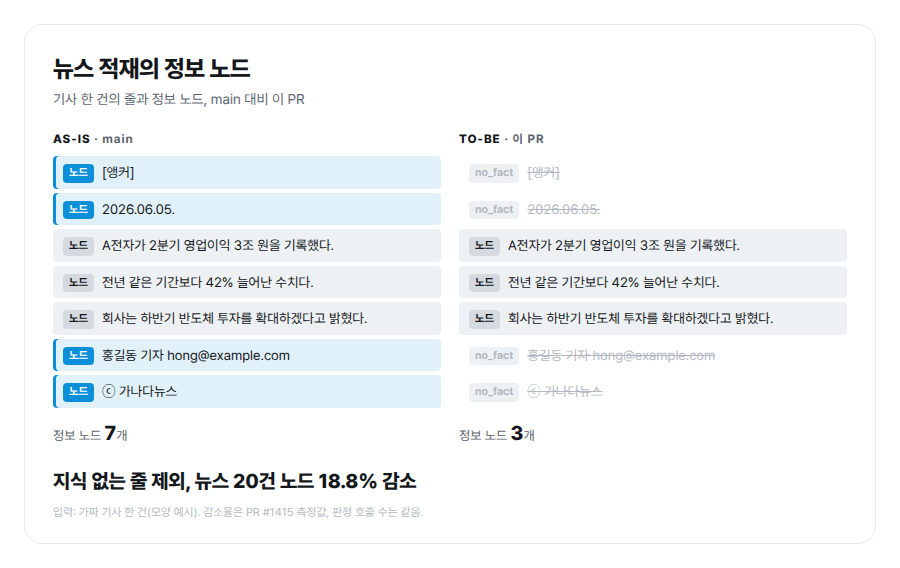
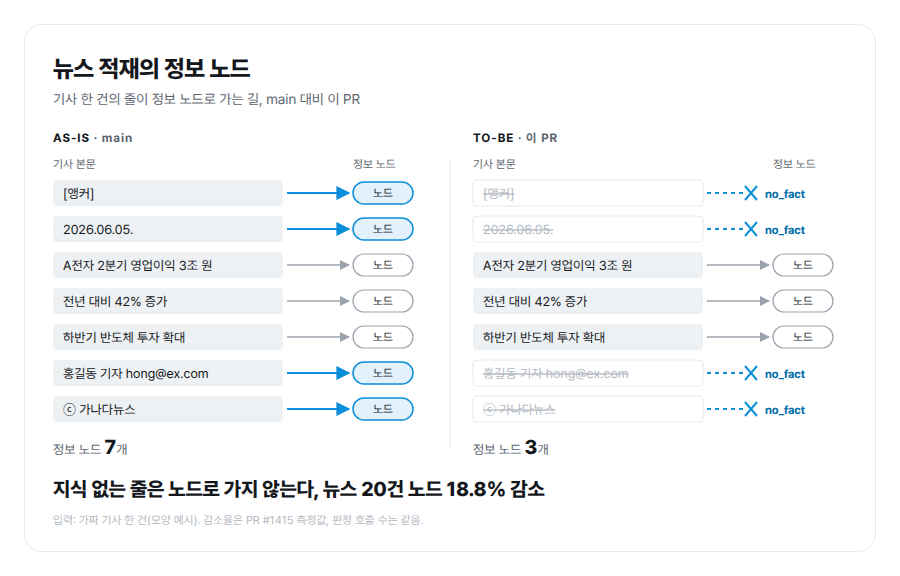
pr, visuals: PR 변경 그림은 글자 상자가 아니라 바뀐 흐름·관계·시간을 SVG 도형과 화살표로 그린다

diff --git a/skills/visuals/examples/pr1415.html b/skills/visuals/examples/pr1415.html
@@ -1,23 +1,83 @@
 <!doctype html><html lang="ko"><head><meta charset="utf-8"><link rel="stylesheet" href="card.css"></head><body><div class="card">
-<div class="title">뉴스 적재의 정보 노드</div><div class="sub">기사 한 건의 줄과 정보 노드, main 대비 이 PR</div>
-<div class="cols"><div class="col"><h4><b>AS-IS</b> · main</h4>
-<div class="row hit"><span class="t">노드</span>[앵커]</div>
-<div class="row hit"><span class="t">노드</span>2026.06.05.</div>
-<div class="row"><span class="t">노드</span>A전자가 2분기 영업이익 3조 원을 기록했다.</div>
-<div class="row"><span class="t">노드</span>전년 같은 기간보다 42% 늘어난 수치다.</div>
-<div class="row"><span class="t">노드</span>회사는 하반기 반도체 투자를 확대하겠다고 밝혔다.</div>
-<div class="row hit"><span class="t">노드</span>홍길동 기자 hong@example.com</div>
-<div class="row hit"><span class="t">노드</span>ⓒ 가나다뉴스</div>
-<div class="num">정보 노드 <b>7</b>개</div></div>
-<div class="col"><h4><b>TO-BE</b> · 이 PR</h4>
-<div class="row gone"><span class="t">no_fact</span><s>[앵커]</s></div>
-<div class="row gone"><span class="t">no_fact</span><s>2026.06.05.</s></div>
-<div class="row"><span class="t">노드</span>A전자가 2분기 영업이익 3조 원을 기록했다.</div>
-<div class="row"><span class="t">노드</span>전년 같은 기간보다 42% 늘어난 수치다.</div>
-<div class="row"><span class="t">노드</span>회사는 하반기 반도체 투자를 확대하겠다고 밝혔다.</div>
-<div class="row gone"><span class="t">no_fact</span><s>홍길동 기자 hong@example.com</s></div>
-<div class="row gone"><span class="t">no_fact</span><s>ⓒ 가나다뉴스</s></div>
-<div class="num">정보 노드 <b>3</b>개</div></div></div>
-<div class="foot"><div class="take">지식 없는 줄 제외, 뉴스 20건 노드 18.8% 감소</div></div>
+<div class="title">뉴스 적재의 정보 노드</div><div class="sub">기사 한 건의 줄이 정보 노드로 가는 길, main 대비 이 PR</div>
+<svg class="fig" viewBox="0 0 794 330"><defs><marker id="a" viewBox="0 0 10 10" refX="9" refY="5" markerWidth="7" markerHeight="7" orient="auto-start-reverse"><path d="M0 0L10 5L0 10z" fill="#9AA3AD"/></marker><marker id="h" viewBox="0 0 10 10" refX="9" refY="5" markerWidth="7" markerHeight="7" orient="auto-start-reverse"><path d="M0 0L10 5L0 10z" fill="#0B8FD8"/></marker></defs>
+<text x="0" y="14" class="head"><tspan class="b">AS-IS</tspan> · main</text>
+<text x="0" y="40" class="small">기사 본문</text><text x="300" y="40" class="small">정보 노드</text>
+<rect x="0" y="52" width="230" height="26" rx="4" class="box"/>
+<text x="10" y="70">[앵커]</text>
+<path d="M234 65H296" class="edge hit" marker-end="url(#h)"/>
+<rect x="300" y="54" width="60" height="22" rx="11" class="hit"/>
+<text x="330" y="69" text-anchor="middle" style="font-size:11.5px">노드</text>
+<rect x="0" y="88" width="230" height="26" rx="4" class="box"/>
+<text x="10" y="106">2026.06.05.</text>
+<path d="M234 101H296" class="edge hit" marker-end="url(#h)"/>
+<rect x="300" y="90" width="60" height="22" rx="11" class="hit"/>
+<text x="330" y="105" text-anchor="middle" style="font-size:11.5px">노드</text>
+<rect x="0" y="124" width="230" height="26" rx="4" class="box"/>
+<text x="10" y="142">A전자 2분기 영업이익 3조 원</text>
+<path d="M234 137H296" class="edge" marker-end="url(#a)"/>
+<rect x="300" y="126" width="60" height="22" rx="11" class="node"/>
+<text x="330" y="141" text-anchor="middle" style="font-size:11.5px">노드</text>
+<rect x="0" y="160" width="230" height="26" rx="4" class="box"/>
+<text x="10" y="178">전년 대비 42% 증가</text>
+<path d="M234 173H296" class="edge" marker-end="url(#a)"/>
+<rect x="300" y="162" width="60" height="22" rx="11" class="node"/>
+<text x="330" y="177" text-anchor="middle" style="font-size:11.5px">노드</text>
+<rect x="0" y="196" width="230" height="26" rx="4" class="box"/>
+<text x="10" y="214">하반기 반도체 투자 확대</text>
+<path d="M234 209H296" class="edge" marker-end="url(#a)"/>
+<rect x="300" y="198" width="60" height="22" rx="11" class="node"/>
+<text x="330" y="213" text-anchor="middle" style="font-size:11.5px">노드</text>
+<rect x="0" y="232" width="230" height="26" rx="4" class="box"/>
+<text x="10" y="250">홍길동 기자 hong@ex.com</text>
+<path d="M234 245H296" class="edge hit" marker-end="url(#h)"/>
+<rect x="300" y="234" width="60" height="22" rx="11" class="hit"/>
+<text x="330" y="249" text-anchor="middle" style="font-size:11.5px">노드</text>
+<rect x="0" y="268" width="230" height="26" rx="4" class="box"/>
+<text x="10" y="286">ⓒ 가나다뉴스</text>
+<path d="M234 281H296" class="edge hit" marker-end="url(#h)"/>
+<rect x="300" y="270" width="60" height="22" rx="11" class="hit"/>
+<text x="330" y="285" text-anchor="middle" style="font-size:11.5px">노드</text>
+<text x="0" y="326" class="count">정보 노드 <tspan class="n">7</tspan>개</text>
+<path d="M397 30V320" class="axis"/>
+<text x="420" y="14" class="head"><tspan class="b">TO-BE</tspan> · 이 PR</text>
+<text x="420" y="40" class="small">기사 본문</text><text x="720" y="40" class="small">정보 노드</text>
+<rect x="420" y="52" width="230" height="26" rx="4" fill="none" stroke="#E6E9ED"/>
+<text x="430" y="70" class="gone" text-decoration="line-through">[앵커]</text>
+<path d="M654 65H692" class="edge hit cut"/>
+<path d="M692 58l12 14M704 58l-12 14" stroke="#0B8FD8" stroke-width="2"/>
+<text x="712" y="70" class="acc" style="font-size:11.5px">no_fact</text>
+<rect x="420" y="88" width="230" height="26" rx="4" fill="none" stroke="#E6E9ED"/>
+<text x="430" y="106" class="gone" text-decoration="line-through">2026.06.05.</text>
+<path d="M654 101H692" class="edge hit cut"/>
+<path d="M692 94l12 14M704 94l-12 14" stroke="#0B8FD8" stroke-width="2"/>
+<text x="712" y="106" class="acc" style="font-size:11.5px">no_fact</text>
+<rect x="420" y="124" width="230" height="26" rx="4" class="box"/>
+<text x="430" y="142">A전자 2분기 영업이익 3조 원</text>
+<path d="M654 137H716" class="edge" marker-end="url(#a)"/>
+<rect x="720" y="126" width="60" height="22" rx="11" class="node"/>
+<text x="750" y="141" text-anchor="middle" style="font-size:11.5px">노드</text>
+<rect x="420" y="160" width="230" height="26" rx="4" class="box"/>
+<text x="430" y="178">전년 대비 42% 증가</text>
+<path d="M654 173H716" class="edge" marker-end="url(#a)"/>
+<rect x="720" y="162" width="60" height="22" rx="11" class="node"/>
+<text x="750" y="177" text-anchor="middle" style="font-size:11.5px">노드</text>
+<rect x="420" y="196" width="230" height="26" rx="4" class="box"/>
+<text x="430" y="214">하반기 반도체 투자 확대</text>
+<path d="M654 209H716" class="edge" marker-end="url(#a)"/>
+<rect x="720" y="198" width="60" height="22" rx="11" class="node"/>
+<text x="750" y="213" text-anchor="middle" style="font-size:11.5px">노드</text>
+<rect x="420" y="232" width="230" height="26" rx="4" fill="none" stroke="#E6E9ED"/>
+<text x="430" y="250" class="gone" text-decoration="line-through">홍길동 기자 hong@ex.com</text>
+<path d="M654 245H692" class="edge hit cut"/>
+<path d="M692 238l12 14M704 238l-12 14" stroke="#0B8FD8" stroke-width="2"/>
+<text x="712" y="250" class="acc" style="font-size:11.5px">no_fact</text>
+<rect x="420" y="268" width="230" height="26" rx="4" fill="none" stroke="#E6E9ED"/>
+<text x="430" y="286" class="gone" text-decoration="line-through">ⓒ 가나다뉴스</text>
+<path d="M654 281H692" class="edge hit cut"/>
+<path d="M692 274l12 14M704 274l-12 14" stroke="#0B8FD8" stroke-width="2"/>
+<text x="712" y="286" class="acc" style="font-size:11.5px">no_fact</text>
+<text x="420" y="326" class="count">정보 노드 <tspan class="n">3</tspan>개</text></svg>
+<div class="take">지식 없는 줄은 노드로 가지 않는다, 뉴스 20건 노드 18.8% 감소</div>
 <div class="src">입력: 가짜 기사 한 건(모양 예시). 감소율은 PR #1415 측정값, 판정 호출 수는 같음.</div>
 </div></body></html>

diff --git a/skills/visuals/examples/pr1437.html b/skills/visuals/examples/pr1437.html
@@ -1,21 +1,26 @@
 <!doctype html><html lang="ko"><head><meta charset="utf-8"><link rel="stylesheet" href="card.css"></head><body><div class="card">
-<div class="title">생략된 주어 문장의 정보 노드</div><div class="sub">기사 두 문장과 정보 노드, main 대비 이 PR</div>
-<div class="cols"><div class="col"><h4><b>AS-IS</b> · main</h4>
-<div class="cap">기사 본문</div>
-<div class="row"><span class="t">문장 1</span>A전자가 23일 새 폴더블폰을 공개했다.</div>
-<div class="row"><span class="t">문장 2</span>이어 하반기 유럽 출시 계획도 밝혔다.</div>
-<div class="cap">정보 노드</div>
-<div class="row"><span class="t">노드</span>A전자가 23일 새 폴더블폰을 공개했다.</div>
-<div class="row hit"><span class="t">노드</span>이어 하반기 유럽 출시 계획도 밝혔다.</div>
-<div class="num">누가 밝혔는지 없는 조각 <b>1</b>개</div></div>
-<div class="col"><h4><b>TO-BE</b> · 이 PR</h4>
-<div class="cap">기사 본문</div>
-<div class="row"><span class="t">문장 1</span>A전자가 23일 새 폴더블폰을 공개했다.</div>
-<div class="row"><span class="t">문장 2</span>이어 하반기 유럽 출시 계획도 밝혔다.</div>
-<div class="ref">↳ (생략된 주어) refers_to 문장 1</div>
-<div class="cap">정보 노드</div>
-<div class="row hit"><span class="t">노드</span>A전자가 23일 새 폴더블폰을 공개했다. 이어 하반기 유럽 출시 계획도 밝혔다.</div>
-<div class="num">조각 <b>0</b>개</div></div></div>
-<div class="foot"><div class="take">조각 해소 48 → 58 / 80 (뉴스 29건)</div></div>
+<div class="title">생략된 주어 문장의 정보 노드</div><div class="sub">기사 두 문장이 정보 노드가 되는 길, main 대비 이 PR</div>
+<svg class="fig" viewBox="0 0 794 206"><defs><marker id="a" viewBox="0 0 10 10" refX="9" refY="5" markerWidth="7" markerHeight="7" orient="auto-start-reverse"><path d="M0 0L10 5L0 10z" fill="#9AA3AD"/></marker><marker id="h" viewBox="0 0 10 10" refX="9" refY="5" markerWidth="7" markerHeight="7" orient="auto-start-reverse"><path d="M0 0L10 5L0 10z" fill="#0B8FD8"/></marker></defs>
+<text x="0" y="14" class="head"><tspan class="b">AS-IS</tspan> · main</text>
+<text x="24" y="40" class="small">기사 본문</text><text x="276" y="40" class="small">정보 노드</text>
+<rect x="24" y="52" width="220" height="30" rx="4" class="box"/><text x="34" y="72">A전자가 새 폴더블폰을 공개했다.</text>
+<rect x="24" y="122" width="220" height="30" rx="4" class="box"/><text x="34" y="142">이어 유럽 출시 계획도 밝혔다.</text>
+<path d="M248 67H272" class="edge" marker-end="url(#a)"/>
+<rect x="276" y="52" width="100" height="30" rx="15" class="node"/><text x="326" y="72" text-anchor="middle" style="font-size:12px">A전자 · 공개</text>
+<path d="M248 137H272" class="edge hit" marker-end="url(#h)"/>
+<rect x="276" y="122" width="100" height="30" rx="15" class="hit" stroke-dasharray="4 3"/><text x="326" y="142" text-anchor="middle" class="acc" style="font-size:12px">? · 유럽 출시</text>
+<text x="24" y="196" class="count">누가 밝혔는지 없는 조각 <tspan class="n">1</tspan>개</text>
+<path d="M397 30V200" class="axis"/>
+<text x="418" y="14" class="head"><tspan class="b">TO-BE</tspan> · 이 PR</text>
+<text x="442" y="40" class="small">기사 본문</text><text x="694" y="40" class="small">정보 노드</text>
+<rect x="442" y="52" width="220" height="30" rx="4" class="box"/><text x="452" y="72">A전자가 새 폴더블폰을 공개했다.</text>
+<rect x="442" y="122" width="220" height="30" rx="4" class="box"/><text x="452" y="142">이어 유럽 출시 계획도 밝혔다.</text>
+<path d="M442 137C416 137 416 67 438 67" class="edge hit" marker-end="url(#h)"/>
+<text x="448" y="106" class="acc" style="font-size:12px">refers_to 문장 1</text>
+<path d="M666 67C680 67 680 102 690 102" class="edge" marker-end="url(#a)"/>
+<path d="M666 137C680 137 680 102 690 102" class="edge hit" marker-end="url(#h)"/>
+<rect x="694" y="80" width="100" height="44" rx="12" class="hit"/><text x="744" y="98" text-anchor="middle" style="font-size:12px">A전자 · 공개</text><text x="744" y="115" text-anchor="middle" class="acc" style="font-size:12px">+ 유럽 출시</text>
+<text x="442" y="196" class="count">조각 <tspan class="n">0</tspan>개</text></svg>
+<div class="take">조각 해소 48 → 58 / 80 (뉴스 29건)</div>
 <div class="src">입력: 가짜 기사 두 문장(모양 예시). 해소 수치는 PR #1437 측정값.</div>
 </div></body></html>

diff --git a/skills/visuals/examples/card.css b/skills/visuals/examples/card.css
@@ -2,25 +2,26 @@
 @font-face{font-family:Pretendard;src:url(fonts/Pretendard-SemiBold.otf);font-weight:600}
 @font-face{font-family:Pretendard;src:url(fonts/Pretendard-Bold.otf);font-weight:700}
 @font-face{font-family:Pretendard;src:url(fonts/Pretendard-ExtraBold.otf);font-weight:800}
-:root{--bg:#F4F6F8;--panel:#FFFFFF;--ink:#14171B;--muted:#5D6570;--dim:#B3B9C2;--accent:#0B8FD8;--accentText:#006DA8;--line:#E6E9ED;--soft:#EEF1F4;--tint:rgba(11,143,216,.12)}
+:root{--panel:#FFFFFF;--ink:#14171B;--muted:#5D6570;--dim:#B3B9C2;--accent:#0B8FD8;--accentText:#006DA8;--line:#E6E9ED;--soft:#EEF1F4;--edge:#9AA3AD;--tint:#E2F1FB}
 body{margin:0;background:#fff;color:var(--ink);font:15px/1.5 Pretendard,"Pretendard Variable","Noto Sans KR",sans-serif;word-break:keep-all}
 .card{margin:24px;padding:26px 28px 22px;border:1px solid var(--line);border-radius:18px;background:var(--panel)}
 .title{font-size:24px;font-weight:800;letter-spacing:-.02em}
 .sub{font-size:14px;color:var(--muted);margin-top:2px}
-.cols{display:grid;grid-template-columns:1fr 1fr;gap:18px;margin-top:20px}
-.col h4{margin:0 0 8px;font-size:12px;font-weight:700;letter-spacing:.08em;color:var(--muted)}
-.col h4 b{color:var(--ink)}
-.cap{font-size:12px;color:var(--muted);margin:10px 0 4px}
-.row{display:flex;gap:8px;align-items:flex-start;padding:6px 10px;margin:4px 0;border-radius:4px;background:var(--soft);font-size:13.5px}
-.row .t{flex:none;font-size:11px;font-weight:700;border-radius:4px;padding:1px 6px;margin-top:2px;background:#D5DAE0;color:var(--ink)}
-.row.hit{background:var(--tint);box-shadow:inset 3px 0 0 var(--accent)}
-.row.hit .t{background:var(--accent);color:#fff}
-.row.gone{background:transparent;color:var(--dim)}
-.row.gone s{text-decoration:line-through}
-.row.gone .t{background:var(--soft);color:var(--dim)}
-.ref{font-size:12px;color:var(--accentText);margin:-1px 0 4px 56px}
-.num{margin-top:10px;font-size:13px;color:var(--muted)}
-.num b{font-size:20px;color:var(--ink);font-weight:800}
-.foot{display:flex;justify-content:space-between;align-items:flex-end;margin-top:18px}
-.take{font-size:20px;font-weight:800;letter-spacing:-.01em}
+.take{margin-top:16px;font-size:20px;font-weight:800;letter-spacing:-.01em}
 .src{font-size:11.5px;color:var(--dim);margin-top:8px}
+svg.fig{display:block;width:100%;height:auto;margin-top:18px;font-family:Pretendard,sans-serif}
+svg.fig text{font-size:13px;fill:var(--ink)}
+svg.fig .head{font-size:12px;font-weight:700;letter-spacing:.08em;fill:var(--muted)}
+svg.fig .head tspan.b{fill:var(--ink)}
+svg.fig .small{font-size:11.5px;fill:var(--muted)}
+svg.fig .count{font-size:13px;fill:var(--muted)}
+svg.fig .count tspan.n{font-size:20px;font-weight:800;fill:var(--ink)}
+svg.fig .box{fill:var(--soft)}
+svg.fig .node{fill:#fff;stroke:var(--edge);stroke-width:1.2}
+svg.fig .hit{fill:var(--tint);stroke:var(--accent);stroke-width:1.5}
+svg.fig .gone{fill:var(--dim)}
+svg.fig .edge{fill:none;stroke:var(--edge);stroke-width:1.5}
+svg.fig .edge.hit{fill:none;stroke:var(--accent);stroke-width:2}
+svg.fig .edge.cut{stroke-dasharray:4 4}
+svg.fig .acc{fill:var(--accentText);font-weight:700}
+svg.fig .axis{stroke:var(--line);stroke-width:1}

diff --git a/skills/visuals/examples/container-cleanup.html b/skills/visuals/examples/container-cleanup.html
@@ -1,0 +1,26 @@
+<!doctype html><html lang="ko"><head><meta charset="utf-8"><link rel="stylesheet" href="card.css"></head><body><div class="card">
+<div class="title">강제 종료된 시험 실행의 컨테이너</div><div class="sub">runner를 SIGKILL한 뒤 컨테이너가 사는 시간, main 대비 이 PR</div>
+<svg class="fig" viewBox="0 0 794 332"><path d="M0 168H794" stroke="#E6E9ED"/><defs><marker id="a" viewBox="0 0 10 10" refX="9" refY="5" markerWidth="7" markerHeight="7" orient="auto-start-reverse"><path d="M0 0L10 5L0 10z" fill="#9AA3AD"/></marker><marker id="h" viewBox="0 0 10 10" refX="9" refY="5" markerWidth="7" markerHeight="7" orient="auto-start-reverse"><path d="M0 0L10 5L0 10z" fill="#0B8FD8"/></marker></defs>
+<path d="M150.0 30V318" class="axis"/><text x="150.0" y="22" text-anchor="middle" class="small">0</text>
+<path d="M182.0 30V318" class="axis"/><text x="182.0" y="22" text-anchor="middle" class="small">10초</text>
+<path d="M278.0 30V318" class="axis"/><text x="278.0" y="22" text-anchor="middle" class="small">40초</text>
+<path d="M726.0 30V318" class="axis"/><text x="726.0" y="22" text-anchor="middle" class="small">3분</text>
+<text x="0" y="48" class="head"><tspan class="b">AS-IS</tspan> · main</text>
+<text x="0" y="77">unit runner</text><rect x="150.0" y="64" width="32.0" height="18" rx="3" class="box"/>
+<path d="M177.0 62l12 22M189.0 62l-12 22" stroke="#14171B" stroke-width="2"/><text x="196.0" y="77" class="small">SIGKILL</text>
+<text x="0" y="111">unit 컨테이너</text>
+<rect x="150.0" y="98" width="616.0" height="18" rx="3" class="hit"/>
+<path d="M766.0 107h22" class="edge hit" marker-end="url(#h)"/>
+<text x="286.0" y="111" class="acc" style="font-size:12px">CPU 상한 없음(64코어) · 지우는 쪽 없음</text>
+<text x="0" y="154" class="count">3분 뒤 남은 컨테이너 <tspan class="n">1</tspan>개</text>
+<text x="0" y="182" class="head"><tspan class="b">TO-BE</tspan> · 이 PR</text>
+<text x="0" y="211">unit runner</text><rect x="150.0" y="198" width="32.0" height="18" rx="3" class="box"/>
+<path d="M177.0 196l12 22M189.0 196l-12 22" stroke="#14171B" stroke-width="2"/><text x="196.0" y="211" class="small">SIGKILL</text>
+<text x="0" y="245">unit 컨테이너</text><rect x="150.0" y="232" width="128.0" height="18" rx="3" class="node"/><text x="158.0" y="245" style="font-size:12px">CPU 4코어</text>
+<text x="0" y="279">Ryuk</text><rect x="150.0" y="266" width="128.0" height="18" rx="3" class="hit"/>
+<path d="M278.0 275C318.0 275 318.0 241 282.0 241" class="edge hit" marker-end="url(#h)"/>
+<text x="320.0" y="263.0" class="acc" style="font-size:12px">runner 연결이 끊기면 컨테이너와 자신을 삭제</text>
+<text x="0" y="312" class="count">40초 뒤 남은 컨테이너 <tspan class="n">0</tspan>개</text></svg>
+<div class="take">죽은 시험의 컨테이너가 40초 안에 사라지고, 사는 동안 CPU 4코어를 넘지 않는다</div>
+<div class="src">입력: 모양 예시. 시각은 작업자가 올린 그림의 관측값을 옮김.</div>
+</div></body></html>

diff --git a/skills/visuals/SKILL.md b/skills/visuals/SKILL.md
@@ -2,7 +2,7 @@
 name: visuals
 description: Apply the user's visual preferences to HTML, UI, data charts, diagrams, slides, and other visual materials; read it before making any data chart. Use ztd-charts for data charts and hand-positioned SVG for structural diagrams, with a light theme, readable fonts, and interaction where possible.
 metadata:
-  version: "1.4.0"
+  version: "1.5.0"
 ---
 
 # Visual materials
@@ -58,13 +58,24 @@ For an as-is structure, first inspect the code that computes each element's posi
 
 The change visual is the one image at the top of a PR body that shows what the PR changes at a glance; the `pr` skill (`~/.agents/skills/pr/SKILL.md`, "Change visual") holds the requirement and how it is posted. It takes one of two forms by the kind of change. The user's words (2026-11-17), after approving three as-is/to-be examples: "기능 변경의 경우 이런 시각화가 유용하고, 성능 개선의 경우는 chart 시각화를 넣어라."
 
-A change of behaviour or output uses the as-is/to-be card: two columns, `AS-IS · main` and `TO-BE · 이 PR`, over the same real input shown in both. Each column shows the output its code produced for that input, read from an actual run of the base commit and of the PR head, or the actual text of the file before and after. What the change touches is in the accent color, an item the change drops stays in place gray and struck through so the columns line up, and unchanged items stay neutral gray. Each column ends with one line of numbers that measures the difference, such as the count of extracted items. Pick the input that shows the difference most plainly and cut it to the part where the difference lies.
+A change of behaviour or output uses the as-is/to-be drawing: a hand-positioned SVG that draws what the change does to the same real input in both states, `AS-IS · main` and `TO-BE · 이 PR`. **The change visual is a drawing, not text in boxes.** The user's words (2026-11-17), shown PR change visuals that listed each state's items as text rows in boxes: "야. PR에 그림 넣는거, (…) 그냥 글자만 대충 상자 안에 넣고 올리잖아. 장난하냐? 그림을 그리라고 그림을", then "SVG 몰라?" and "강조해". So the body is an SVG whose shapes, positions, connectors, and arrows carry the change, with text only as short labels on them, as the "Charts and diagrams" and "Structural visualization" sections describe; two columns of text rows, with or without colored tags, are not a change visual however the rows are styled.
+
+Choose the drawing by what the change acts on, and draw that thing:
+
+| The change acts on | Draw |
+| --- | --- |
+| Flow of data, such as which input becomes which output | The input pieces and the outputs as shapes joined by arrows; a dropped path ends in a cut mark where it stops |
+| Relations, such as a reference, a merge, or a split | Nodes and the edges between them, with the new or removed edge in the accent color |
+| Time, such as a lifetime, an order, a timeout, or a retry | One shared time axis with a lane per state and bars for what lives when, the event that ends each bar drawn as an arrow from its cause |
+| Text, such as a document, a rule, or a prompt | The real passage before and after, with the changed spans marked on the text and joined to what they cause |
+
+Each state comes from the same real input, read from an actual run of the base commit and of the PR head, or the actual text of the file before and after. What the change touches is in the accent color, what the change removes stays in place in gray with its path cut, so the two states line up, and unchanged parts stay neutral gray. Each state ends with one line of numbers that measures the difference, such as the count of extracted items. Pick the input that shows the difference most plainly and cut it to the part where the difference lies.
 
 A performance change uses a `ztd-charts` chart of the measured or proved numbers, main against this PR for each case, such as a grouped bar of the two values per case or a bar of the speedup per path. Write the spec and render it as the "Charts and diagrams" section says.
 
-Both forms share one card style, the `ztd-charts` light theme card: a title, a one-line subtitle naming what is compared, the body, a bold one-line takeaway at the bottom, one accent color for what changed and neutral gray for the rest, and a small source line naming the input or the measurement. The user's words (2026-11-17), asking for this while the examples were made: "디자인 스타일을 좀 통일해주면 좋겠어", and, told that the card puts a title inside the figure against the rule above: "좋아. 일단 이렇게 하자". So the rule against titles and explanatory sentences inside a figure does not apply to the change visual. For the as-is/to-be card, write HTML on `examples/card.css`, which holds the theme tokens and the card classes, with a `fonts/` directory beside it holding the Pretendard files copied from `~/.local/share/ztd-charts-runtime/node_modules/ztd-charts-cli/fonts`, and render it to PNG with `~/.agents/skills/browser-render/SKILL.md` using `--viewport 900x100 --fullpage`, which keeps the page 900px wide, about the width GitHub shows a body at, and grows its height to the content. Inspect the PNG before posting: Korean text renders in Pretendard, nothing overlaps or is clipped, and the difference is visible without zooming.
+Both forms share one card style, the `ztd-charts` light theme card: a title, a one-line subtitle naming what is compared, the body, a bold one-line takeaway at the bottom, one accent color for what changed and neutral gray for the rest, and a small source line naming the input or the measurement. The user's words (2026-11-17), asking for this while the examples were made: "디자인 스타일을 좀 통일해주면 좋겠어", and, told that the card puts a title inside the figure against the rule above: "좋아. 일단 이렇게 하자". So the rule against titles and explanatory sentences inside a figure does not apply to the change visual. For the as-is/to-be drawing, write HTML on `examples/card.css`, which holds the theme tokens, the card frame, and the SVG classes, with the drawing as an inline `<svg class="fig">` between the subtitle and the takeaway, with a `fonts/` directory beside it holding the Pretendard files copied from `~/.local/share/ztd-charts-runtime/node_modules/ztd-charts-cli/fonts`, and render it to PNG with `~/.agents/skills/browser-render/SKILL.md` using `--viewport 900x100 --fullpage`, which keeps the page 900px wide, about the width GitHub shows a body at, and grows its height to the content. Inspect the PNG before posting: Korean text renders in Pretendard, nothing overlaps or is clipped, the difference is visible without zooming, and a reader who skips every label still sees what changed from the shapes and arrows.
 
-The approved examples in `examples/` are drawn on placeholder data for shape only; a real PR uses real data. `pr1415` (extraction: lines without facts dropped and struck through) and `pr1437` (prompt rule: a fragment node merged through `refers_to`) are as-is/to-be cards, each as its HTML source and PNG. `pr1460-chart` (keyword search: p50 speedup per path) and `pr1423-chart` (thread count, main against this PR per case) are performance charts, each as its `ztd-charts` spec and PNG.
+The examples in `examples/` are drawn on placeholder data for shape only; a real PR uses real data. `pr1415` (flow: lines without facts cut before they become nodes), `pr1437` (relation: a `refers_to` edge merges two nodes), and `container-cleanup` (time: a container's lifetime after its runner is killed, ended by Ryuk) are as-is/to-be drawings, each as its HTML source and PNG. `pr1460-chart` (keyword search: p50 speedup per path) and `pr1423-chart` (thread count, main against this PR per case) are performance charts, each as its `ztd-charts` spec and PNG.
 
 ## Render verification
 

diff --git a/skills/pr/SKILL.md b/skills/pr/SKILL.md
@@ -3,7 +3,7 @@ name: pr
 description: "Open a PR, take it through the CI gate, and finish it through merging. Write the title as a noun phrase, and write the body as a change visual at the very top (one image: as-is and to-be on real data for a behaviour change, a chart of main against the PR for a performance change), then an issue reference line, then a short `-` bullet summary of about three bullets (10 lines or fewer including sub-bullets), with the detailed explanation placed at the bottom of the body. Always apply the sucks skill to Korean prose. Use when the user calls /pr or instructs to open a PR (PR 을 올리라고 지시할 때), when merging or finishing a PR (PR 을 병합하거나 마무리할 때), when stacking PRs with the GitHub stacked PR feature (PR 을 스택하라고 지시할 때), and when CI fails on code that was just pushed or merged (방금 push 하거나 병합한 코드의 CI 가 실패했을 때)."
 metadata:
   author: hrlee
-  version: "1.28.0"
+  version: "1.29.0"
   domain: workflow
   triggers: PR, pull request, PR 스택, stacked PR, gh stack, PR 올려, PR 생성, gh pr create, PR 병합, CI 실패
   role: guardian
@@ -141,7 +141,7 @@ If the repository requires a prefix such as `fix(#12):` or a suffix such as `(#1
 
 The body opens with one image that shows at a glance what the PR changes, before any prose. The user's words (2026-11-17), given as a general instruction for every future PR: "앞으로 PR을 작성할때, 그 PR이 무엇을 바꾸는지, 힐끗 봐도 바로 알 수 있는 html 아티팩트를 작성해서 pr에 삽입하거나, 이미지로 만들어서 PR 본문 맨위에 넣을거야. 예를 들어서, emem에서 정보 추출 방식을 변경하는 PR이 있다고 하면, AS-is와, to-be를 바로 이해할 수 있어야돼. 설명만 있는게 아니라, 실제 데이터를 가지고 보여줘야돼. 특정 기사 본문을 표시하고, 원래는 정보가 이렇게 뽑혔는데, 지금은 이렇게 뽑힌다고 딱 그림으로 표시하는식."
 
-The image takes one of two forms by the kind of change. The user's words (2026-11-17), after approving three as-is/to-be examples: "기능 변경의 경우 이런 시각화가 유용하고, 성능 개선의 경우는 chart 시각화를 넣어라." A change of behaviour or output puts as-is and to-be side by side on one real input the change acts on and marks what differs. As-is is what the base commit produces for that input and to-be is what the PR head produces, both obtained by running that code or reading that file, not described or invented; for the user's example, one real article body with the information the old extraction and the new extraction pull from it marked on the text. A change to text, such as a document, a rule, or a prompt, shows the real passage before and after; a change whose base has no such behavior shows what the base does with the same input, such as an error or an empty result. A performance change shows a chart of the measured or proved numbers, main against the PR head for each case. Draw either as `~/.agents/skills/visuals/SKILL.md` describes under "PR change visual", in its shared card style, and inspect the PNG at the body width.
+The image takes one of two forms by the kind of change. The user's words (2026-11-17), after approving three as-is/to-be examples: "기능 변경의 경우 이런 시각화가 유용하고, 성능 개선의 경우는 chart 시각화를 넣어라." A change of behaviour or output draws as-is and to-be on one real input the change acts on, as an SVG drawing whose shapes, connectors, and arrows show what differs; text rows listed in boxes are not a change visual (the user's words, 2026-11-17: "그림을 그리라고 그림을", "SVG 몰라?", "강조해"). As-is is what the base commit produces for that input and to-be is what the PR head produces, both obtained by running that code or reading that file, not described or invented; for the user's example, one real article body with the information the old extraction and the new extraction pull from it marked on the text. A change to text, such as a document, a rule, or a prompt, shows the real passage before and after; a change whose base has no such behavior shows what the base does with the same input, such as an error or an empty result. A performance change shows a chart of the measured or proved numbers, main against the PR head for each case. Draw either as `~/.agents/skills/visuals/SKILL.md` describes under "PR change visual", in its shared card style, and inspect the PNG at the body width.
 
 The image goes in the body as a PNG uploaded to GitHub, not as HTML. GitHub embeds images in a PR body ("GitHub supports embedding images into your issues, pull requests, discussions, comments and `.md` files.", https://docs.github.com/en/get-started/writing-on-github/getting-started-with-writing-and-formatting-on-github/basic-writing-and-formatting-syntax), and GitHub CLI uploads it: "You can attach a local image or video from the command line with GitHub CLI using the `--attach` flag." and "The GitHub CLI only supports uploading image and media files." (https://docs.github.com/en/github-cli/github-cli/attaching-files-with-github-cli). The first line of the body file is `![<what the image compares, in Korean>](<local path of the PNG>)`, followed by a blank line, and the PR is posted with the same path passed to the flag (`gh pr create --help` of 2.104.0: "Paths in a `--body-file` are relative to its directory, falling back to the working directory."): `gh pr create --title "<명사구 제목>" --body-file body.md --attach <local path of the PNG>`, or `gh pr edit <number> --body-file body.md --attach <local path of the PNG>`. The same page states: "If your Markdown text already references a local file, and you attach that same file with `--attach`, GitHub CLI rewrites the reference in place to point at the uploaded file, rather than appending a second copy at the end." The flag needs GitHub CLI 2.99.0 or later ("You just need to update `gh` to v2.99.0.", https://github.blog/changelog/2026-09-01-github-cli-media-in-issues-pull-requests-and-comments/) and write access to the repository; in a private repository "only people with access to the repository can view the uploaded files" (https://docs.github.com/en/get-started/writing-on-github/working-with-advanced-formatting/attaching-files). When `gh --version` is older, stop and report the version instead of committing the image to a branch or linking a raw file URL: a committed image enters the merged tree or needs a push to a branch other than the PR branch.
 
